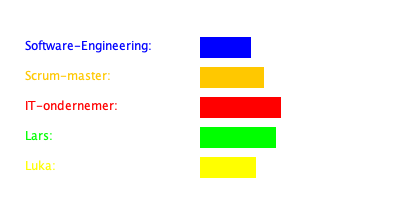
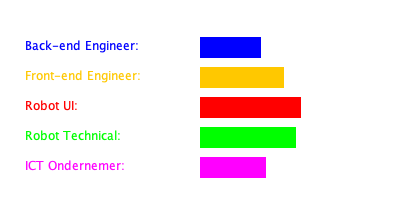
general bug fixing, image generated values correcting

diff --git a/src/Questions.java b/src/Questions.java
@@ -4,9 +4,18 @@ import java.io.*;
 import java.util.*;
 import org.json.simple.*;
 import org.json.simple.parser.*;
+import com.aldebaran.qi.Session;
+import com.aldebaran.qi.helper.proxies.ALTextToSpeech;
+import com.aldebaran.qi.CallError;
+import org.eclipse.paho.client.mqttv3.*;
 
 public class Questions {
-    public static void main(String[] args) {
+    static private Session session;
+    static private ALTextToSpeech textToSpeech;
+    static private JSONParser parser;
+    static private MQTT mqtt;
+    static private long[] score = new long[5];
+    static private boolean isPressed = false;
 
     static private ArrayList answers;
 
@@ -76,31 +85,31 @@ public class Questions {
                     case "Yes":
                         // System.out.println(answers.get(0));
                         System.out.println(((JSONObject) answers.get(0)).get("score-back-end"));
-                         score[0] += (int) (long) ((JSONObject) answers.get(0)).get("score-back-end");
-                         score[1] += (int) (long) ((JSONObject) answers.get(0)).get("score-front-end");
-                         score[2] += (int) (long) ((JSONObject) answers.get(0)).get("score-robot-ui");
-                         score[3] += (int) (long) ((JSONObject) answers.get(0)).get("score-robot-technical");
-                         score[4] += (int) (long) ((JSONObject) answers.get(0)).get("score-ict-ondernemer");
+                        score[0] += (int) (long) ((JSONObject) answers.get(0)).get("score-back-end");
+                        score[1] += (int) (long) ((JSONObject) answers.get(0)).get("score-front-end");
+                        score[2] += (int) (long) ((JSONObject) answers.get(0)).get("score-robot-ui");
+                        score[3] += (int) (long) ((JSONObject) answers.get(0)).get("score-robot-technical");
+                        score[4] += (int) (long) ((JSONObject) answers.get(0)).get("score-ict-ondernemer");
 
                         break;
                     case "Maybe":
                         System.out.println(answers.get(1));
 
-                         score[0] += (int) (long) ((JSONObject) answers.get(1)).get("score-back-end");
-                         score[1] += (int) (long) ((JSONObject) answers.get(1)).get("score-front-end");
-                         score[2] += (int) (long) ((JSONObject) answers.get(1)).get("score-robot-ui");
-                         score[3] += (int) (long) ((JSONObject) answers.get(1)).get("score-robot-technical");
-                         score[4] += (int) (long) ((JSONObject) answers.get(1)).get("score-ict-ondernemer");
+                        score[0] += (int) (long) ((JSONObject) answers.get(1)).get("score-back-end");
+                        score[1] += (int) (long) ((JSONObject) answers.get(1)).get("score-front-end");
+                        score[2] += (int) (long) ((JSONObject) answers.get(1)).get("score-robot-ui");
+                        score[3] += (int) (long) ((JSONObject) answers.get(1)).get("score-robot-technical");
+                        score[4] += (int) (long) ((JSONObject) answers.get(1)).get("score-ict-ondernemer");
 
                         break;
                     case "No":
                         System.out.println(answers.get(2));
 
-                         score[0] += (int) (long) ((JSONObject) answers.get(2)).get("score-back-end");
-                         score[1] += (int) (long) ((JSONObject) answers.get(2)).get("score-front-end");
-                         score[2] += (int) (long) ((JSONObject) answers.get(2)).get("score-robot-ui");
-                         score[3] += (int) (long) ((JSONObject) answers.get(2)).get("score-robot-technical");
-                         score[4] += (int) (long) ((JSONObject) answers.get(2)).get("score-ict-ondernemer");
+                        score[0] += (int) (long) ((JSONObject) answers.get(2)).get("score-back-end");
+                        score[1] += (int) (long) ((JSONObject) answers.get(2)).get("score-front-end");
+                        score[2] += (int) (long) ((JSONObject) answers.get(2)).get("score-robot-ui");
+                        score[3] += (int) (long) ((JSONObject) answers.get(2)).get("score-robot-technical");
+                        score[4] += (int) (long) ((JSONObject) answers.get(2)).get("score-ict-ondernemer");
 
                         break;
                     default:
@@ -117,21 +126,17 @@ public class Questions {
                 throw new UnsupportedOperationException("Unimplemented method 'deliveryComplete'");
             }
         });
-=======
->>>>>>> src/Questions.java
     }
 
     public void parseJson() {
-        JSONParser parser = new JSONParser();
         try {
-            Object obj = parser.parse(new FileReader("./config/questions.json"));
-            JSONObject jsonObject = (JSONObject)obj;
-            JSONArray questions = (JSONArray)jsonObject.get("questions");
+            Object obj = getJsonParser().parse(new FileReader("./config/questions.json"));
+            JSONObject jsonObject = (JSONObject) obj;
+            JSONArray questions = (JSONArray) jsonObject.get("questions");
             Iterator iterator = questions.iterator();
             while (iterator.hasNext()) {
                 System.out.println(iterator.next());
             }
-<<<<<<< src/Questions.java
         } catch (Exception e) {
             e.printStackTrace();
         }

diff --git a/src/CreateImage.java b/src/CreateImage.java
@@ -29,8 +29,8 @@ public class CreateImage {
 
         Graphics2D graphics2D = bufferedImage.createGraphics();
 
-        String[] onderwerp = {"Software-Engineering:", "Scrum-master:", "IT-ondernemer:", "Lars:", "Luka:"};
-        Color[] kleuren = {Color.BLUE, Color.orange, Color.RED, Color.green, Color.yellow};
+        String[] onderwerp = {"Back-end Engineer:", "Front-end Engineer:", "Robot UI:", "Robot Technical:", "ICT Ondernemer:"};
+        Color[] kleuren = {Color.BLUE, Color.orange, Color.RED, Color.green, Color.magenta};
 
         graphics2D.setColor(Color.white);
         graphics2D.fillRect(0, 0, width, height);

diff --git a/src/Main.java b/src/Main.java
@@ -9,9 +9,8 @@ import java.util.concurrent.CountDownLatch;
 public class Main {
 
     public static void main(String[] args) throws Exception {
-
-        CreateImage createImage = new CreateImage();
-        createImage.staafDiagram();
+        Questions questions = new Questions();
+        questions.askAllQuestions();
 
     }
 }
